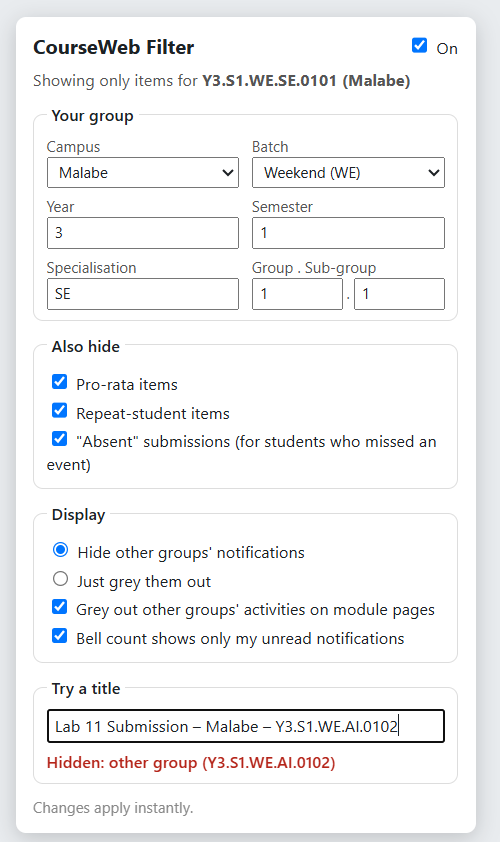
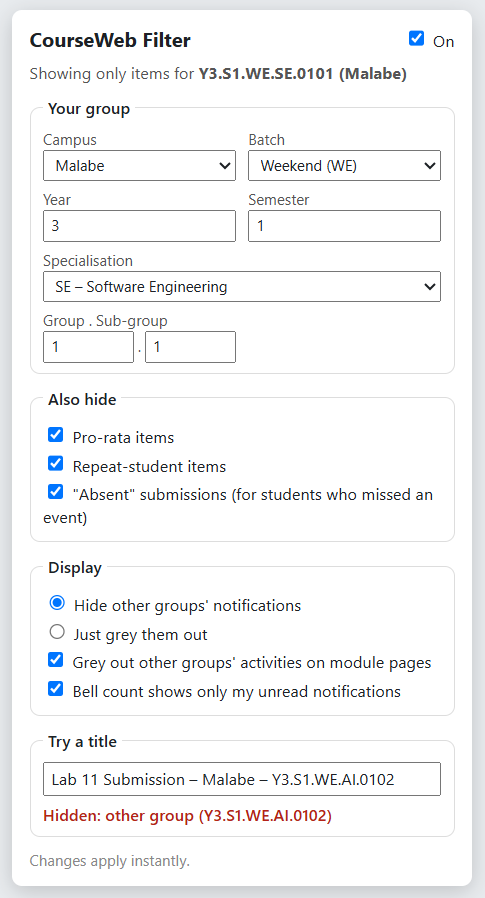
Add specialisation dropdown
Replace the free-text specialisation box with a dropdown of the codes
used in CourseWeb group codes (IT, SE, AI, DS, CS, CSNE, ISE, IM), built
from the same list the filter uses. "Other..." accepts a new code,
normalised to upper-case letters. Specialisation matching is now
case- and space-insensitive.

Changed region(s): [[0.0309, 0.0, 0.9897, 1.0], [0.0, 0.0308, 0.0309, 0.987], [0.8351, 0.1542, 0.8969, 0.2159]]

diff --git a/extension/popup.js b/extension/popup.js
@@ -3,16 +3,40 @@
   const F = self.CWFilter;
   const $ = (id) => document.getElementById(id);
 
-  const PROFILE_FIELDS = ['campus', 'mode', 'year', 'semester', 'specialization', 'group', 'subgroup'];
+  const PROFILE_FIELDS = ['campus', 'mode', 'year', 'semester', 'group', 'subgroup'];
   const PROFILE_FLAGS = ['hideProrata', 'hideRepeat', 'hideAbsent'];
   const NUMERIC = ['year', 'semester', 'group', 'subgroup'];
+  const OTHER = '__other';
+  const KNOWN_CODES = F.SPECIALIZATIONS.map((s) => s.code);
 
   let settings;
+
+  // The dropdown is built from filter.js's list, so it always offers exactly the codes the filter understands.
+  function buildSpecializationOptions() {
+    const select = $('specialization');
+    for (const s of F.SPECIALIZATIONS) select.add(new Option(s.code + ' – ' + s.name, s.code));
+    select.add(new Option('Other…', OTHER));
+  }
+
+  function renderSpecialization(code) {
+    const known = KNOWN_CODES.includes(code);
+    $('specialization').value = known ? code : OTHER;
+    $('specializationOther').hidden = known;
+    $('specializationOther').value = known ? '' : code;
+  }
+
+  // Letters only, upper-case, so "se", " SE " and "S.E" all become "SE".
+  function readSpecialization() {
+    if ($('specialization').value !== OTHER) return $('specialization').value;
+    const typed = $('specializationOther').value.toUpperCase().replace(/[^A-Z]/g, '');
+    return typed || settings.profile.specialization;
+  }
 
   function render() {
     const p = settings.profile;
     $('enabled').checked = settings.enabled;
     for (const f of PROFILE_FIELDS) $(f).value = p[f];
+    renderSpecialization(p.specialization);
     for (const f of PROFILE_FLAGS) $(f).checked = p[f];
     document.querySelector('input[name="display"][value="' + settings.display + '"]').checked = true;
     $('dimCoursePage').checked = settings.dimCoursePage;
@@ -24,7 +48,7 @@
   function readForm() {
     const p = {};
     for (const f of PROFILE_FIELDS) p[f] = NUMERIC.includes(f) ? Number($(f).value) || 1 : $(f).value.trim();
-    p.specialization = p.specialization.toUpperCase();
+    p.specialization = readSpecialization();
     for (const f of PROFILE_FLAGS) p[f] = $(f).checked;
     return {
       enabled: $('enabled').checked,
@@ -38,6 +62,7 @@
   function save() {
     settings = readForm();
     chrome.storage.sync.set({ settings }, () => {
+      renderSpecialization(settings.profile.specialization);
       $('summary').textContent = F.describeProfile(settings.profile);
       $('saved').textContent = 'Saved.';
       probe();
@@ -64,7 +89,17 @@
       s,
       { profile: F.withDefaults(s.profile) },
     );
+    buildSpecializationOptions();
     render();
+    $('specialization').addEventListener('change', (e) => {
+      const other = $('specialization').value === OTHER;
+      $('specializationOther').hidden = !other;
+      if (other) {
+        // Wait for the code to be typed; saving now would snap back to the old value.
+        e.stopImmediatePropagation();
+        $('specializationOther').focus();
+      }
+    });
     document.querySelectorAll('input:not(#probe), select').forEach((el) => el.addEventListener('change', save));
     $('probe').addEventListener('input', probe);
   });

diff --git a/extension/filter.js b/extension/filter.js
@@ -23,6 +23,19 @@
     hideAbsent: true,
   };
 
+  // Specialisation codes as they appear in CourseWeb group codes (e.g. Y3.S1.WE.SE.0101).
+  // Collected from real CourseWeb module pages and notifications (Oct 2026).
+  const SPECIALIZATIONS = [
+    { code: 'IT', name: 'Information Technology' },
+    { code: 'SE', name: 'Software Engineering' },
+    { code: 'AI', name: 'Artificial Intelligence' },
+    { code: 'DS', name: 'Data Science' },
+    { code: 'CS', name: 'Cyber Security' },
+    { code: 'CSNE', name: 'Computer Systems & Network Engineering' },
+    { code: 'ISE', name: 'Information Systems Engineering' },
+    { code: 'IM', name: 'Interactive Media' },
+  ];
+
   // SLIIT campuses other than the one in the profile are treated as "not mine".
   const CAMPUSES = ['Malabe', 'Kandy', 'Northern', 'Matara', 'Kurunegala', 'Jaffna', 'Metro'];
 
@@ -54,7 +67,11 @@
   const YEAR_SEM = [/\bY\s?([1-4])\s?\.?\s?S\s?([12])\b/gi, /\bYear\s*([1-4])\s*,?\s*Sem(?:ester)?\s*([12])\b/gi];
 
   function withDefaults(profile) {
-    return Object.assign({}, DEFAULT_PROFILE, profile || {});
+    const p = Object.assign({}, DEFAULT_PROFILE, profile || {});
+    // Group codes are upper-case ("SE"), so " se " must still match.
+    p.specialization = String(p.specialization || '').trim().toUpperCase();
+    p.mode = String(p.mode || '').trim().toUpperCase();
+    return p;
   }
 
   function findGroupCodes(text) {
@@ -152,7 +169,7 @@
     return 'Y' + p.year + '.S' + p.semester + '.' + p.mode + '.' + p.specialization + '.' + pad(p.group) + pad(p.subgroup) + ' (' + p.campus + ')';
   }
 
-  const api = { DEFAULT_PROFILE, classify, findGroupCodes, describeProfile, withDefaults };
+  const api = { DEFAULT_PROFILE, SPECIALIZATIONS, classify, findGroupCodes, describeProfile, withDefaults };
   root.CWFilter = api;
   if (typeof module !== 'undefined' && module.exports) module.exports = api;
 })(typeof self !== 'undefined' ? self : globalThis);

diff --git a/tests/filter.test.js b/tests/filter.test.js
@@ -1,6 +1,6 @@
 const test = require('node:test');
 const assert = require('node:assert');
-const { classify, findGroupCodes, describeProfile } = require('../extension/filter.js');
+const { classify, findGroupCodes, describeProfile, SPECIALIZATIONS } = require('../extension/filter.js');
 const fixtures = require('./fixtures.js');
 
 for (const [title, expected] of fixtures) {
@@ -30,6 +30,26 @@ test('a different profile flips the verdicts', () => {
   assert.strictEqual(classify('MEM Re-Evaluation Schedule - Weekday', weekdayAI).relevant, true);
   assert.strictEqual(classify('IT3120 Presentation Schedule - Weekend', weekdayAI).relevant, false);
   assert.strictEqual(classify('lab sheet 07 submission - Kandy Uni', { campus: 'Kandy' }).relevant, true);
+});
+
+test('every dropdown specialisation actually filters', () => {
+  for (const { code } of SPECIALIZATIONS) {
+    const me = { specialization: code };
+    assert.strictEqual(classify('Lab 11 Submission – Malabe – Y3.S1.WE.' + code + '.0101', me).relevant, true, code + ' own lab');
+    assert.strictEqual(classify('WEEKLY QUIZ 11 - Y3.S1.WE.' + code + '.01', me).relevant, true, code + ' own quiz');
+    for (const other of SPECIALIZATIONS.filter((s) => s.code !== code)) {
+      assert.strictEqual(classify('Lab 11 Submission – Malabe – Y3.S1.WE.' + other.code + '.0101', me).relevant, false, code + ' vs ' + other.code);
+    }
+  }
+});
+
+test('specialisation is case/space-insensitive in settings', () => {
+  assert.strictEqual(classify('Lab 11 Submission – Malabe – Y3.S1.WE.CSNE.0101', { specialization: ' csne ' }).relevant, true);
+});
+
+test('CS and CSNE are not confused', () => {
+  assert.strictEqual(classify('WEEKLY QUIZ 11 - Y3.S1.WE.CSNE.01', { specialization: 'CS' }).relevant, false);
+  assert.strictEqual(classify('WEEKLY QUIZ 11 - Y3.S1.WE.CS.01', { specialization: 'CSNE' }).relevant, false);
 });
 
 test('pro-rata toggle', () => {

diff --git a/extension/popup.html b/extension/popup.html
@@ -35,7 +35,10 @@
         </label>
         <label>Year <input id="year" type="number" min="1" max="4" /></label>
         <label>Semester <input id="semester" type="number" min="1" max="2" /></label>
-        <label>Specialisation <input id="specialization" type="text" maxlength="5" placeholder="SE" /></label>
+        <label class="wide">Specialisation
+          <select id="specialization"></select>
+          <input id="specializationOther" type="text" maxlength="6" placeholder="Code, e.g. SE" hidden />
+        </label>
         <label>Group . Sub-group
           <span class="pair"><input id="group" type="number" min="1" max="99" />.<input id="subgroup" type="number" min="1" max="99" /></span>
         </label>

diff --git a/extension/popup.css b/extension/popup.css
@@ -55,6 +55,14 @@ select {
   color: #1d2125;
 }
 
+.grid .wide {
+  grid-column: 1 / -1;
+}
+
+#specializationOther {
+  margin-top: 4px;
+}
+
 .pair {
   display: flex;
   align-items: center;

diff --git a/README.md b/README.md
@@ -60,8 +60,24 @@ Setting your group, using `Y3.S1.WE.SE.0101` as an example:
 | Campus | Malabe | your campus |
 | Batch | Weekend (WE) | `WE` = weekend, `WD` = weekday |
 | Year / Semester | 3 / 1 | `Y3.S1` |
-| Specialisation | SE | `SE`, `IT`, `AI`, `DS`, `CS`, `CSNE`… |
+| Specialisation | SE – Software Engineering | pick from the dropdown (see below) |
 | Group . Sub-group | 1 . 1 | `0101` = group 01, sub-group 01 |
+
+The specialisation dropdown lists every code found in real CourseWeb group codes:
+
+| Code | Specialisation |
+| --- | --- |
+| `IT` | Information Technology (also used for Year 1–2 groups before specialising) |
+| `SE` | Software Engineering |
+| `AI` | Artificial Intelligence |
+| `DS` | Data Science |
+| `CS` | Cyber Security |
+| `CSNE` | Computer Systems & Network Engineering |
+| `ISE` | Information Systems Engineering |
+| `IM` | Interactive Media |
+
+If SLIIT adds a new one, choose **Other…** and type the code exactly as it appears in your group code
+(e.g. `CYS` for `Y3.S1.WE.CYS.0101`).
 
 Each new semester, just update Year / Semester / Group.
 
